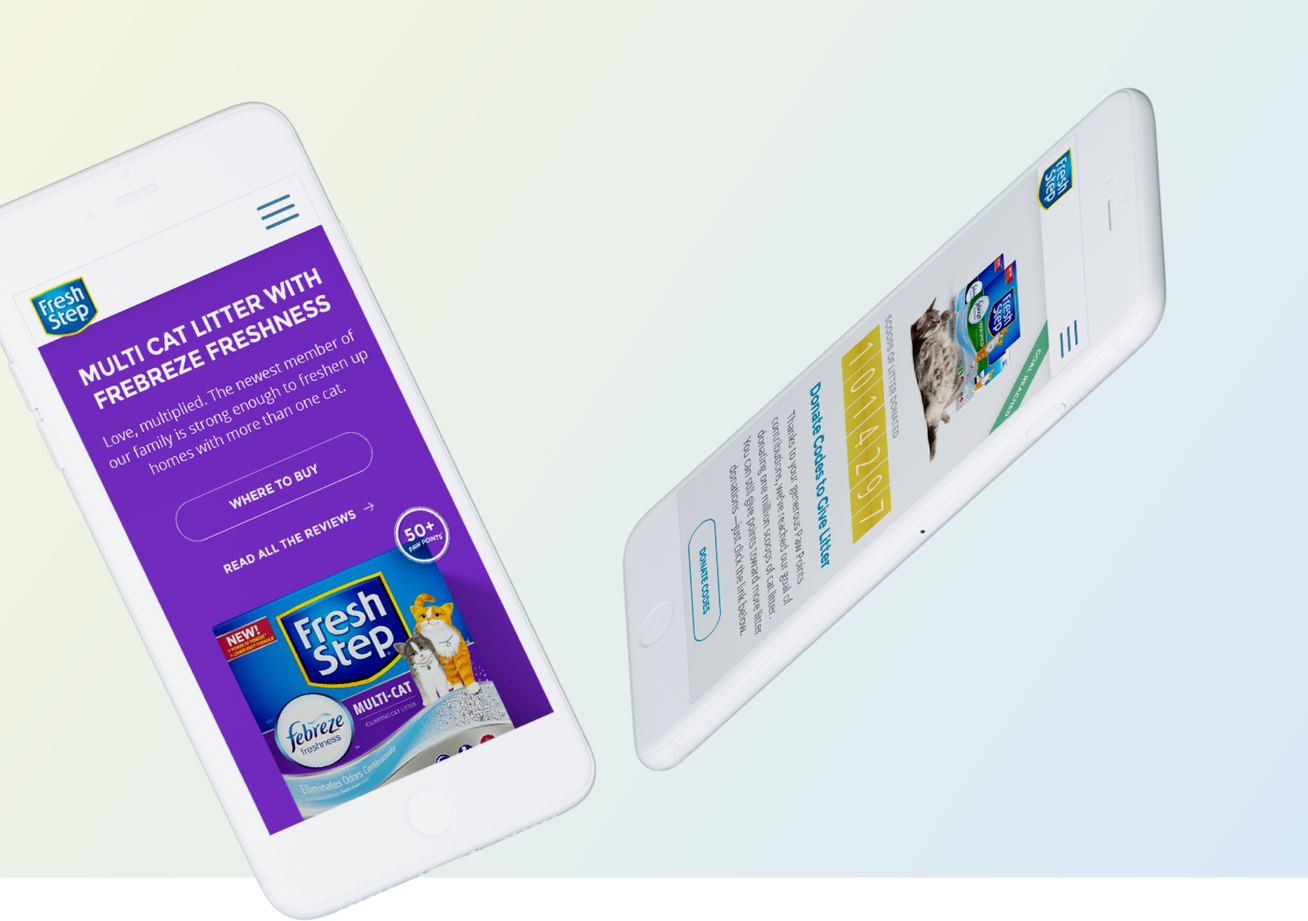
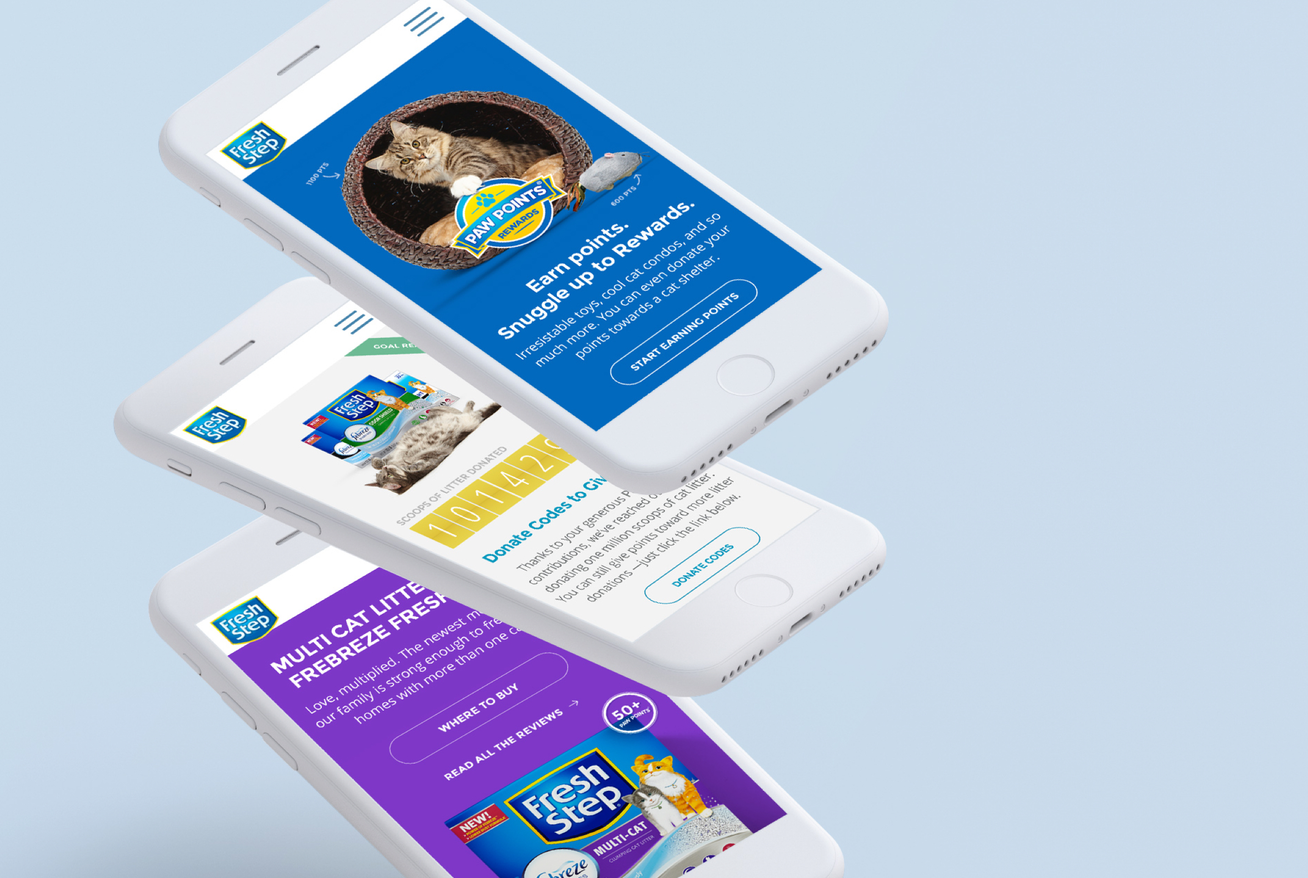
Added project images

diff --git a/src/projects/FreshStep/FreshStep.js b/src/projects/FreshStep/FreshStep.js
@@ -1,7 +1,10 @@
 import React from 'react';
 import ProjectText from 'components/ProjectText/ProjectText.js';
 import ProjectImage from 'components/ProjectImage/ProjectImage.js';
-import image1 from './images/fresh-step-home.jpg';
+import image1 from './images/fresh-step-product-detail.jpg';
+import image2 from './images/fresh-step-home.jpg';
+import image3 from './images/fresh-step-mmm.jpg';
+import image4 from './images/fresh-step-reward-detail.jpg';
 
 const FreshStep = () => {
   return (
@@ -13,7 +16,21 @@ const FreshStep = () => {
 
       <ProjectImage
         image={image1}
-        altText="Coffe Bean and Tea Leaf Homepages."
+        altText="Fresh Step product detail."
+      />
+
+      <ProjectImage
+        image={image2}
+        altText="Fresh Step home page."
+      />
+
+      <ProjectImage
+        image={image3}
+        altText="Fresh Step Million Meow Mission."
+      />
+      <ProjectImage
+        image={image4}
+        altText="Fresh Step reward detail."
       />
 
     </div>
